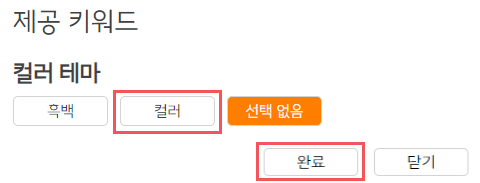
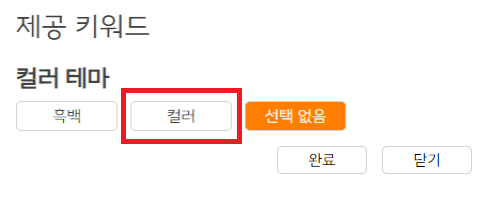
231129 이미지 수정 가이드 모달 css 최종 수정 -나범수-

Changed region(s): [[0.0312, 0.3279, 0.7188, 0.7377], [0.5312, 0.765, 0.9688, 1.0], [0.0312, 0.0546, 0.3125, 0.2186]]

diff --git a/react-project/src/pages/CreateImage.jsx b/react-project/src/pages/CreateImage.jsx
@@ -162,11 +162,11 @@ const CreateImage = () => {
         style={{
           display: "block",
           background: "red",
-          width: "15%",
-          height: "10%",
+          width: "35px",
+          height: "6%",
           position: "absolute",
           right: '-1%',
-          bottom: '50%',
+          bottom: '53%',
           zIndex: "10",
           border: "none",
           background: "none",
@@ -188,10 +188,10 @@ const CreateImage = () => {
         type="button"
         style={{
           display: "block",
-          width: "15%",
+          width: "33px",
           height: "10%",
           position: "absolute",
-          bottom: "50%",
+          bottom: "50.5%",
           zIndex: "10",
           // marginLeft: "5%",
           border: "none",
@@ -217,6 +217,7 @@ const CreateImage = () => {
     nextArrow: <NextArrow />, // 화살표 버튼을 커스텀해서 사용
     prevArrow: <PrevArrow />,
   };
+
 
   return (
     // 이미지 생성페이지 전체
@@ -308,34 +309,33 @@ const CreateImage = () => {
             <h2 style={{ margin: " 5% auto 0" }}>어떻게 만들까요?</h2>
             <div className="guidemodal-content">
               <Slider {...settings}>
-                <div>
+                
                   <div className="guidemodal-guideinfo">
                     <img
                       src={"./images/inputguide.png"}
                       alt=""
                       className="guidemodal-guideinfo-img"
+                      
+                    
                     />
                     <div className="guidemodal-guideinfo-info" >
-                      <span>
-                        만들고 싶은 이미지와 관련된 단어나 문장을{" "}
-                        <span className="bold">"핵심 키워드"</span>에
-                        입력해주세요.
-                      </span>
+                      <span>  만들고 싶은 이미지와 관련된 단어나 문장을{" "}</span>
+                      <span className="bold">"핵심 키워드"에</span> <span>  입력해주세요.</span>
                     </div>
-                  </div>
+                  
                 </div>
                 <div className="guidemodal-guideinfo">
                   <img
                     src={"./images/samplekeyword.png"}
                     alt=""
                     className="guidemodal-guideinfo-img"
+                  
                   />
-                  <div className="guidemodal-guideinfo-info " >
-                    <span>
-                      어떻게 써야할지 어렵나요?<br/>
-                      <span> 저희가{" "} <span className="bold">키워드</span>를 준비했어요.</span>
-                      <br/>키워드를 클릭! 클릭!
-                    </span>
+                  <div className="guidemodal-guideinfo-info" style={{marginTop:'2%'}}>
+                    <span>어떻게 써야할지 어렵나요?</span><br></br>
+                    <span> 저희가 </span> <span className="bold">키워드</span> <span>를 준비했어요.</span>
+                    <p>키워드를 클릭! 클릭!</p>
+                    
                     
                   </div>
                 </div>
@@ -344,10 +344,11 @@ const CreateImage = () => {
                     src={"./images/guidenegative.png"}
                     alt=""
                     className="guidemodal-guideinfo-img"
+                    
                   />
-                  <div className="guidemodal-guideinfo-info" >
+                  <div className="guidemodal-guideinfo-info" style={{marginTop:'2%'}} >
                     <span>
-                      넣고 싶지 않은게 있나요?{" "}<br/> 그렇다면{" "} 
+                      넣고 싶지 않은게 있나요?<br/> 그렇다면{" "} 
                       <span className="bold">"제외 키워드"</span>에 관련 단어나
                       문장을 넣어봐요.
                     </span>
@@ -358,10 +359,10 @@ const CreateImage = () => {
                     src={"./images/DDALKKAK.png"}
                     alt=""
                     className="guidemodal-guideinfo-img"
+                    
                   />
                   <div
                     className="guidemodal-guideinfo-info"
-                    style={{marginTop:'15%'}}
                   >
                     <span>만들 이미지의 수를 선택! <br/>
                       마지막으로 <span className="bold">"딸-깍!"</span>{" "}

diff --git a/react-project/src/css/Imagelayout.css b/react-project/src/css/Imagelayout.css
@@ -1,20 +1,6 @@
-@media (max-width: 1024px) {
-  .creImg_body {
-    margin-top: 10%;
-  }
-}
 
-@media (max-width: 375px) and (max-width: 1023px) {
-  .imgtopbody {
-    padding: 5%;
-  }
-  .creImg_body {
-    padding: 0 0;
-  }
-}
 
-@media (max-width: 320px) {
-}
+
 
 /* 생성페이지 몸통 */
 .creImg_body {
@@ -149,12 +135,12 @@
 /* 가이드 모달창 */
 .guidemodal-body {
   background-color: #ffffff;
-  width: 40%;
-  height: 70%;
+  width: 30%;
   padding: 10px;
   border-radius: 5px;
   display: flex;
   flex-direction: column;
+  min-width : 350px;
 }
 
 .guidemodal-content {
@@ -173,7 +159,8 @@
 }
 
 .guidemodal-guideinfo-img {
-  width:500px;
+  width:80%;
+  height: 10%;
   margin: auto;
   box-sizing: cover;
 }
@@ -181,7 +168,7 @@
   width: 90%;
   padding: 5%;
   font-size: x-large;
-  white-space: pre-wrap;
+  /* white-space: pre-wrap; */
   margin: 0 auto;
 }
 .guidemodal-guideinfo-info .bold {
@@ -302,3 +289,45 @@
 .hidden {
   display: none;
 }
+
+
+@media( max-width: 280px) {
+  .prompt-input{
+    width: 80%;
+  }
+  .creImg_body{
+    width:100%
+  }
+  .imgtopbody {
+    padding: 5%;
+    min-width:280px;
+  }
+  .same-BTN {
+    font-size : 12px;
+  }
+  .keywordModal{
+    width:50%
+  }
+}
+
+@media (max-width: 375px)  {
+  .imgtopbody {
+    padding: 5%;
+  }
+  .creImg_body {
+    padding: 0 0;
+  }
+  .guidemodal-guideinfo-img{
+    width: 100%
+  }
+  .guidemodal-guideinfo-info{
+    font-size:small
+  }
+}
+
+@media (max-width: 1024px) {
+  .creImg_body {
+    margin-top: 10%;
+  }
+}
+

diff --git a/react-project/src/css/Mypage.css b/react-project/src/css/Mypage.css
@@ -16,7 +16,6 @@
     flex-direction: column;
 }
 
-
 .user-box{
     height: 40px;
     width: 90%;
